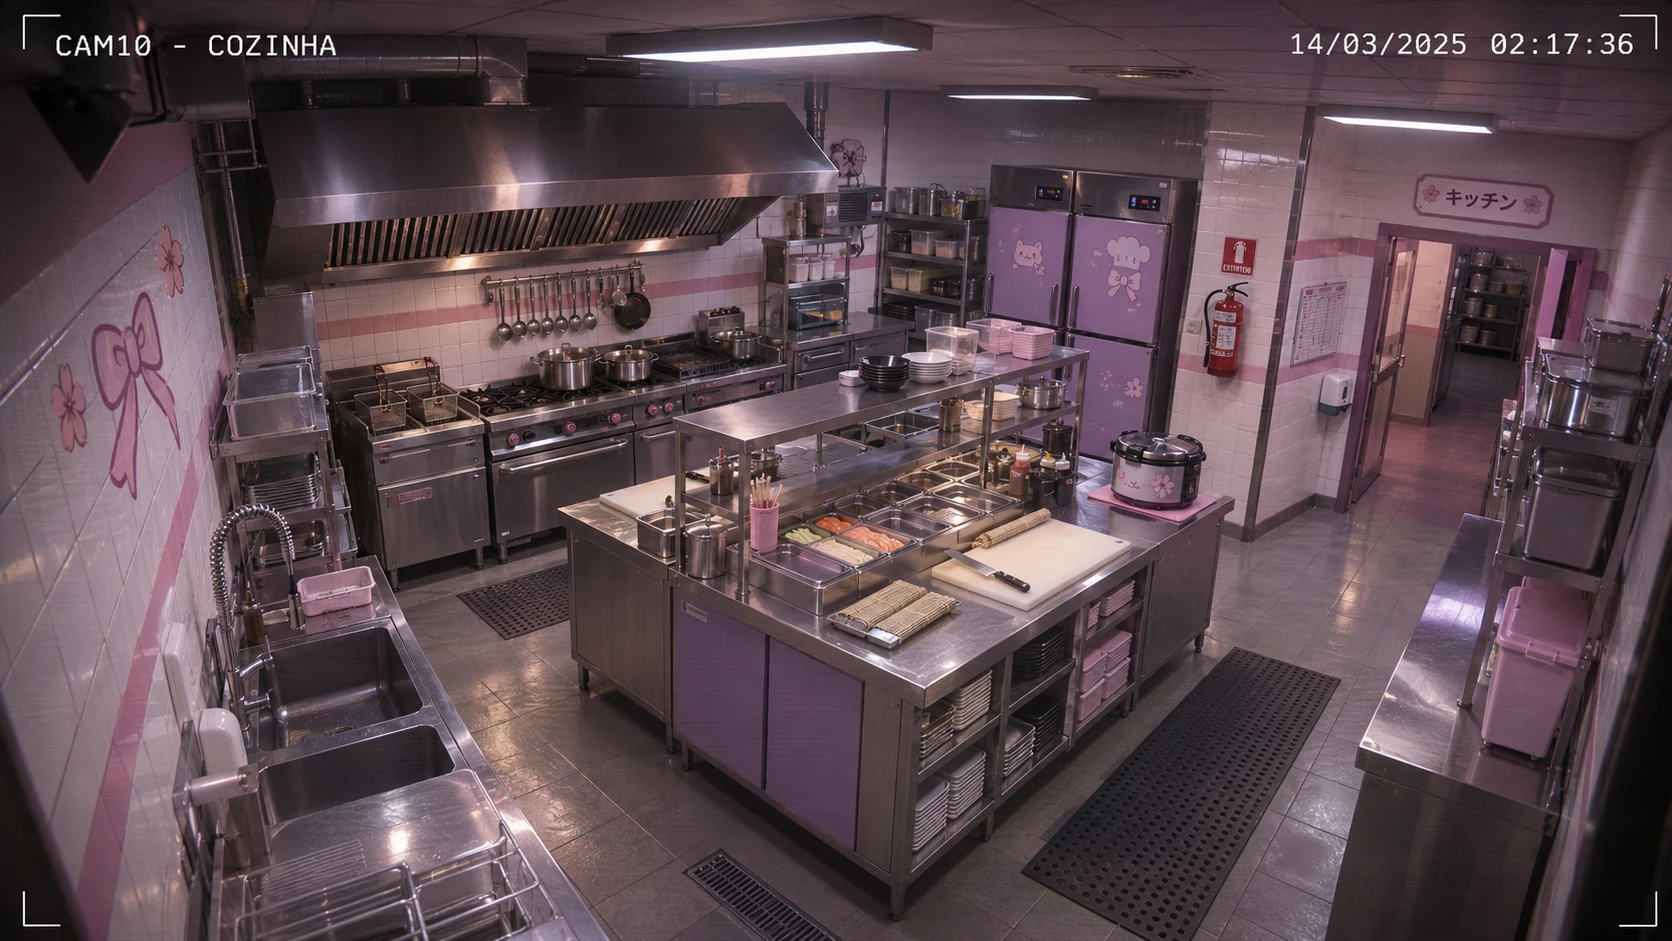
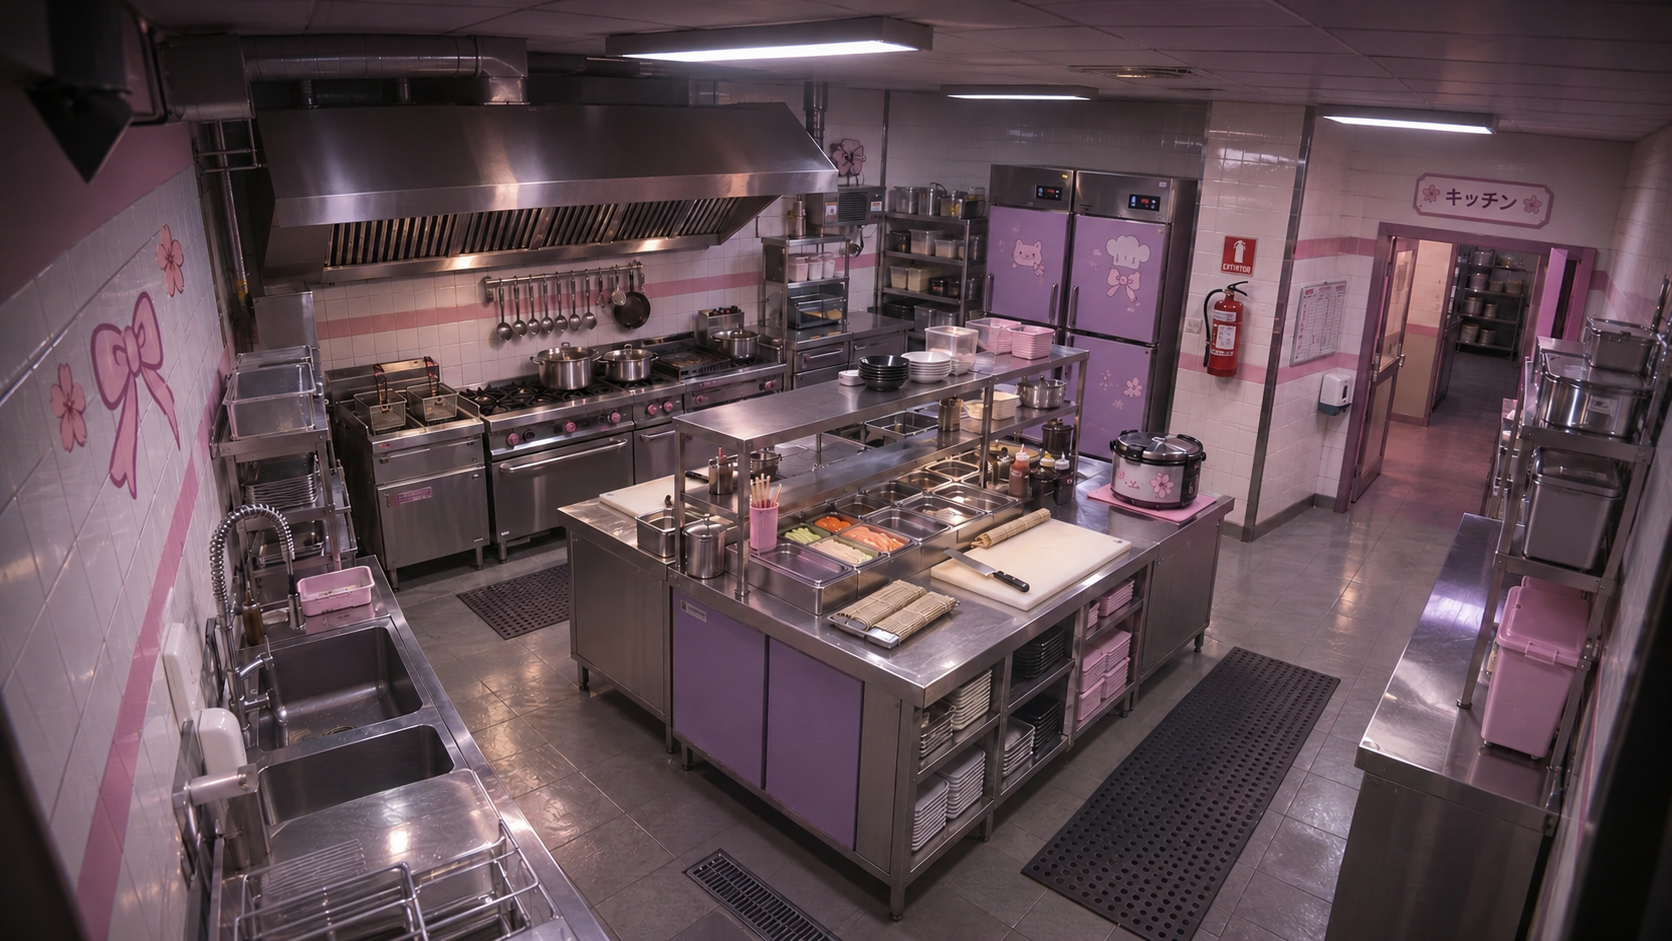
quase todos os states de animatronicas prontas das cameras

diff --git a/src/data/game-data.js b/src/data/game-data.js
@@ -2,6 +2,20 @@
 'use strict';
 // Base do projeto V8: outros/planta/nathzinha_v7_planta_medidas.json
 // Coordenadas: origem sudoeste, x=leste, y=norte, em metros.
+const VIP1_GATE_IMAGES = {
+  'open-open': './public/images/cameras/states/CAM05-open-open.png',
+  'open-closed': './public/images/cameras/states/CAM05-open-closed.png',
+  'closed-open': './public/images/cameras/states/CAM05-closed-open.png',
+  'closed-closed': './public/images/cameras/originals/CAM05.png'
+};
+const VIP1_CHARACTER_STATES = [
+  'original', 'yandere', 'gotica', 'maid',
+  'original-yandere', 'original-gotica', 'original-maid',
+  'yandere-gotica', 'yandere-maid', 'gotica-maid',
+  'original-yandere-gotica', 'original-yandere-maid',
+  'original-gotica-maid', 'yandere-gotica-maid', 'todas'
+];
+
 const CAMERAS = [
   {
     "id": "CAM01",
@@ -43,6 +57,23 @@ const CAMERAS = [
     "angle": 270,
     "fov": 95,
     "image": "./public/images/cameras/CAM02.webp",
+    "characterStateImages": {
+      "original": "./public/images/cameras/states/CAM02-original.webp",
+      "yandere": "./public/images/cameras/states/CAM02-yandere.webp",
+      "gotica": "./public/images/cameras/states/CAM02-gotica.webp",
+      "platinada": "./public/images/cameras/states/CAM02-platinada.webp",
+      "original-yandere": "./public/images/cameras/states/CAM02-original-yandere.webp",
+      "original-gotica": "./public/images/cameras/states/CAM02-original-gotica.webp",
+      "original-platinada": "./public/images/cameras/states/CAM02-original-platinada.webp",
+      "yandere-gotica": "./public/images/cameras/states/CAM02-yandere-gotica.webp",
+      "yandere-platinada": "./public/images/cameras/states/CAM02-yandere-platinada.webp",
+      "gotica-platinada": "./public/images/cameras/states/CAM02-gotica-platinada.webp",
+      "original-yandere-gotica": "./public/images/cameras/states/CAM02-original-yandere-gotica.webp",
+      "original-yandere-platinada": "./public/images/cameras/states/CAM02-original-yandere-platinada.webp",
+      "original-gotica-platinada": "./public/images/cameras/states/CAM02-original-gotica-platinada.webp",
+      "yandere-gotica-platinada": "./public/images/cameras/states/CAM02-yandere-gotica-platinada.webp",
+      "todas": "./public/images/cameras/states/CAM02-todas.webp"
+    },
     "technical": "./public/reference/cameras/CAM02_visao.png",
     "renderAvailable": true
   },
@@ -100,13 +131,14 @@ const CAMERAS = [
     "image": "./public/images/cameras/CAM05.webp",
     "gateStateImages": {
       "gates": ["G04", "G05"],
-      "images": {
-        "open-open": "./public/images/cameras/states/CAM05-open-open.png",
-        "open-closed": "./public/images/cameras/states/CAM05-open-closed.png",
-        "closed-open": "./public/images/cameras/states/CAM05-closed-open.png",
-        "closed-closed": "./public/images/cameras/originals/CAM05.png"
-      }
+      "images": VIP1_GATE_IMAGES
     },
+    "characterStateImages": Object.fromEntries(VIP1_CHARACTER_STATES.map(characters => [
+      characters,
+      Object.fromEntries(Object.keys(VIP1_GATE_IMAGES).map(gates => [
+        gates, `./public/images/cameras/states/CAM05-${gates}-${characters}.webp`
+      ]))
+    ])),
     "technical": "./public/reference/cameras/CAM05_visao.png",
     "renderAvailable": true
   },
@@ -120,6 +152,39 @@ const CAMERAS = [
     "angle": 38,
     "fov": 82,
     "image": "./public/images/cameras/CAM06.webp",
+    "characterStateImages": Object.fromEntries([
+      'original',
+      'yandere',
+      'gotica',
+      'platinada',
+      'maid',
+      'original-yandere',
+      'original-gotica',
+      'yandere-gotica',
+      'original-platinada',
+      'yandere-platinada',
+      'gotica-platinada',
+      'original-maid',
+      'yandere-maid',
+      'gotica-maid',
+      'platinada-maid',
+      'original-yandere-gotica',
+      'original-yandere-platinada',
+      'original-gotica-platinada',
+      'yandere-gotica-platinada',
+      'original-yandere-maid',
+      'original-gotica-maid',
+      'yandere-gotica-maid',
+      'original-platinada-maid',
+      'yandere-platinada-maid',
+      'gotica-platinada-maid',
+      'original-yandere-gotica-platinada',
+      'original-yandere-gotica-maid',
+      'original-yandere-platinada-maid',
+      'original-gotica-platinada-maid',
+      'yandere-gotica-platinada-maid',
+      'todas'
+    ].map(characters => [characters, `./public/images/cameras/states/CAM06-${characters}.webp`])),
     "technical": "./public/reference/cameras/CAM06_visao.png",
     "renderAvailable": true
   },
@@ -133,6 +198,13 @@ const CAMERAS = [
     "angle": 138,
     "fov": 88,
     "image": "./public/images/cameras/CAM07.webp",
+    "characterStateImages": Object.fromEntries([
+      'original', 'yandere', 'gotica', 'platinada',
+      'original-yandere', 'original-gotica', 'original-platinada',
+      'yandere-gotica', 'yandere-platinada', 'gotica-platinada',
+      'original-yandere-gotica', 'original-yandere-platinada',
+      'original-gotica-platinada', 'yandere-gotica-platinada', 'todas'
+    ].map(characters => [characters, `./public/images/cameras/states/CAM07-${characters}.webp`])),
     "technical": "./public/reference/cameras/CAM07_visao.png",
     "renderAvailable": true
   },
@@ -172,6 +244,13 @@ const CAMERAS = [
     "angle": 334,
     "fov": 84,
     "image": "./public/images/cameras/CAM10.webp",
+    "characterStateImages": Object.fromEntries([
+      'original', 'yandere', 'gotica', 'maid',
+      'original-yandere', 'original-gotica', 'original-maid',
+      'yandere-gotica', 'yandere-maid', 'gotica-maid',
+      'original-yandere-gotica', 'original-yandere-maid',
+      'original-gotica-maid', 'yandere-gotica-maid', 'todas'
+    ].map(characters => [characters, `./public/images/cameras/states/CAM10-${characters}.webp`])),
     "technical": "./public/reference/cameras/CAM10_visao.png",
     "renderAvailable": true
   },
@@ -185,6 +264,13 @@ const CAMERAS = [
     "angle": 68,
     "fov": 88,
     "image": "./public/images/cameras/CAM11.webp",
+    "characterStateImages": Object.fromEntries([
+      'original', 'yandere', 'gotica', 'maid',
+      'original-yandere', 'original-gotica', 'original-maid',
+      'yandere-gotica', 'yandere-maid', 'gotica-maid',
+      'original-yandere-gotica', 'original-yandere-maid',
+      'original-gotica-maid', 'yandere-gotica-maid', 'todas'
+    ].map(characters => [characters, `./public/images/cameras/states/CAM11-${characters}.webp`])),
     "technical": "./public/reference/cameras/CAM11_visao.png",
     "renderAvailable": true
   },
@@ -205,6 +291,16 @@ const CAMERAS = [
         "closed": "./public/images/cameras/CAM12.webp"
       }
     },
+    "characterStateImages": Object.fromEntries([
+      'original', 'yandere', 'gotica', 'original-yandere', 'original-gotica',
+      'yandere-gotica', 'todas'
+    ].map(characters => [
+      characters,
+      {
+        open: `./public/images/cameras/states/CAM12-open-${characters}.webp`,
+        closed: `./public/images/cameras/states/CAM12-closed-${characters}.webp`
+      }
+    ])),
     "technical": "./public/reference/cameras/CAM12_visao.png",
     "renderAvailable": true
   }

diff --git a/src/main.js b/src/main.js
@@ -2,7 +2,14 @@
 'use strict';
 const { CAMERAS, OFFICE, makeCameraMap, SoundEngine } = window.NathGame;
 const shopCamera = CAMERAS.find(cam => cam.id === 'CAM01');
+const receptionCamera = CAMERAS.find(cam => cam.id === 'CAM02');
 const stageCamera = CAMERAS.find(cam => cam.id === 'CAM03');
+const vip1Camera = CAMERAS.find(cam => cam.id === 'CAM05');
+const vip2Camera = CAMERAS.find(cam => cam.id === 'CAM06');
+const arcadeCamera = CAMERAS.find(cam => cam.id === 'CAM07');
+const kitchenCamera = CAMERAS.find(cam => cam.id === 'CAM10');
+const pickupCamera = CAMERAS.find(cam => cam.id === 'CAM11');
+const corridorCamera = CAMERAS.find(cam => cam.id === 'CAM12');
 
 // A primeira versão funciona como site estático: sem build, sem servidor de jogo e sem backend.
 const $ = selector => document.querySelector(selector);
@@ -106,9 +113,10 @@ function characterStateImages(cam) {
 
 function cameraImage(cam) {
   const views = cam.gateStateImages;
-  if (!views) return characterStateImages(cam)?.[state.characterStates.get(cam.id)] ?? cam.image;
+  const characters = characterStateImages(cam)?.[state.characterStates.get(cam.id)];
+  if (!views) return characters ?? cam.image;
   const key = views.gates.map(id => map.isGateClosed(id) ? 'closed' : 'open').join('-');
-  return views.images[key] ?? cam.image;
+  return characters?.[key] ?? views.images[key] ?? cam.image;
 }
 
 // Seleção explícita para o código do jogo. Use "vazia" para restaurar a imagem padrão.
@@ -328,7 +336,14 @@ resizeObserver.observe(dom.game);
 
 // The site opens directly inside the office: no menu or splash screen.
 window.NathGame.setCam01ShopState = key => setCameraCharacterState(shopCamera, key);
+window.NathGame.setCam02ReceptionState = key => setCameraCharacterState(receptionCamera, key);
 window.NathGame.setCam03StageState = key => setCameraCharacterState(stageCamera, key);
+window.NathGame.setCam05VipState = key => setCameraCharacterState(vip1Camera, key);
+window.NathGame.setCam06VipState = key => setCameraCharacterState(vip2Camera, key);
+window.NathGame.setCam07ArcadeState = key => setCameraCharacterState(arcadeCamera, key);
+window.NathGame.setCam10KitchenState = key => setCameraCharacterState(kitchenCamera, key);
+window.NathGame.setCam11PickupState = key => setCameraCharacterState(pickupCamera, key);
+window.NathGame.setCam12CorridorState = key => setCameraCharacterState(corridorCamera, key);
 changeCamera(CAMERAS[0].id);
 updateOfficeView();
 preloadImages(Object.values(OFFICE.images));

diff --git a/README.md b/README.md
@@ -72,27 +72,37 @@ A área do jogo tem largura máxima de 16:9, centralizada sobre fundo preto. Mon
 | ID | Sala da planta | Recurso exibido |
 |---|---|---|
 | CAM01 | Lojinha | Loja vazia e quinze variantes com as Nathzinhas |
-| CAM02 | Recepção | Cena 3D final |
+| CAM02 | Recepção | Recepção vazia e quinze variantes com as Nathzinhas |
 | CAM03 | Salão principal, virada para o palco | Palco vazio e sete variantes com as Nathzinhas |
 | CAM04 | Salão principal, parede oposta | Portão sul G08 aberto ou fechado |
-| CAM05 | VIP 1 rosa | Quatro estados visuais dos portões G04/G05 |
-| CAM06 | VIP 2 lavanda | Cena 3D final |
-| CAM07 | Fliperama | Cena 3D final |
+| CAM05 | VIP 1 rosa | 64 combinações de personagens e portões G04/G05 |
+| CAM06 | VIP 2 lavanda | Sala vazia e 31 variantes com as Nathzinhas |
+| CAM07 | Fliperama | Sala vazia e quinze variantes com as Nathzinhas |
 | CAM08 | Estoque | Cena 3D 4K |
 | CAM09 | Área de serviço | Nova arte da sala de manutenção técnica |
-| CAM10 | Cozinha | Cena 3D final |
-| CAM11 | Área de retirada | Balcão de retirada de pedidos |
-| CAM12 | Corredor de serviço, leste | Portão G06 aberto com cortinas vermelhas à vista ou fechado |
+| CAM10 | Cozinha | Cozinha vazia sem HUD na arte e quinze variantes com as Nathzinhas |
+| CAM11 | Área de retirada | Balcão vazio e quinze variantes com as Nathzinhas |
+| CAM12 | Corredor de serviço, leste | 16 combinações de personagens e portão G06 |
 
 As 12 câmeras têm cenas próprias, com `CAM01.webp` a `CAM12.webp` na pasta `public/images/cameras/` e os PNG mestres numerados em `originals/`. As plantas técnicas continuam disponíveis como fallback. O manifesto V8 é um registro histórico, anterior à substituição da arte do palco e à inclusão da CAM04 e CAM09.
 
-As combinações da CAM01 ficam em `public/images/cameras/states/`. O jogo pode selecionar uma delas com `NathGame.setCam01ShopState('original-platinada')`. Use `todas` para mostrar as quatro e `vazia` para restaurar a loja vazia.
+As combinações da CAM01 e da CAM02 ficam em `public/images/cameras/states/`. O jogo pode selecionar a variante da loja com `NathGame.setCam01ShopState('original-platinada')` e a da recepção com `NathGame.setCam02ReceptionState('original-platinada')`. Use `todas` para mostrar as quatro e `vazia` para restaurar a sala vazia.
 
 Na CAM04, o portão à esquerda acompanha o G08, entre a recepção e a parede sul do salão. A imagem padrão mostra o portão aberto com breu atrás; fechar o G08 mostra o portão baixado. Detalhes e prompt: `outros/prompts/CAM04_ESTADOS_PORTAO.md`.
 
-A CAM05 começa com os dois portões abertos, mostrando breu nas aberturas. Os portões G04/G05 no mapa controlam as quatro imagens da sala, inclusive quando um deles é reaberto automaticamente pelo limite de três fechados. A sala usa a mesma base de pixels em todos os estados. Detalhes e prompts: `outros/prompts/CAM05_ESTADOS_PORTOES.md`. G04 controla a esquerda e G05 a direita na imagem.
+A CAM05 começa com os dois portões abertos, mostrando breu nas aberturas. G04 controla o portão esquerdo e G05, o direito. Cada configuração dos portões tem 16 combinações de personagens. Selecione uma com `NathGame.setCam05VipState('original-maid')`, `todas` ou `vazia`. A troca de portões mantém as personagens selecionadas, inclusive em reaberturas automáticas. Os recortes da Padrão e da Yandere incluem ajustes nas cadeiras conforme a referência ocupada. Os quatro fundos vazios estão documentados em `outros/prompts/CAM05_ESTADOS_PORTOES.md`.
+
+A CAM06 usa o mesmo fundo para as 32 combinações de personagens. Selecione uma com `NathGame.setCam06VipState('original-platinada-maid')`, `todas` ou `vazia`. A cadeira da Padrão acompanha a posição em que ela aparece sentada na referência.
+
+A CAM07 tem 16 combinações com a Padrão, a Yandere, a Gótica e a Platinada. Selecione uma com `NathGame.setCam07ArcadeState('gotica-platinada')`, `todas` ou `vazia`.
+
+A CAM10 usa a nova arte da cozinha sem HUD como base para as 16 combinações da Padrão, da Yandere, da Gótica e da Maid preto e branco. Selecione uma com `NathGame.setCam10KitchenState('yandere-maid')`, `todas` ou `vazia`.
+
+A CAM11 tem 16 combinações com a Padrão, a Yandere, a Gótica e a Maid preto e branco. O cabelo vermelho na borda esquerda identifica a Yandere. Selecione uma combinação com `NathGame.setCam11PickupState('yandere-maid')`, `todas` ou `vazia`.
 
 Na CAM12, o portão hidráulico G06 começa aberto e revela as cortinas vermelhas dos bastidores do palco da CAM03. Clique no G06 ao norte do salão para baixar ou levantar o portão.
+
+Cada estado do G06 tem oito combinações com a Padrão, a Yandere ao fundo e a Gótica. Selecione uma com `NathGame.setCam12CorridorState('original-gotica')`, `todas` ou `vazia`. A seleção permanece ao alternar o portão.
 
 O comando `node tests/camera-gates.cjs` testa a luz F, os estados do escritório e a ligação dos portões com as câmeras. Os comandos `python tests/test_cam05_images.py` e `python tests/test_office_images.py` (Pillow) conferem a consistência dos cenários.
 
